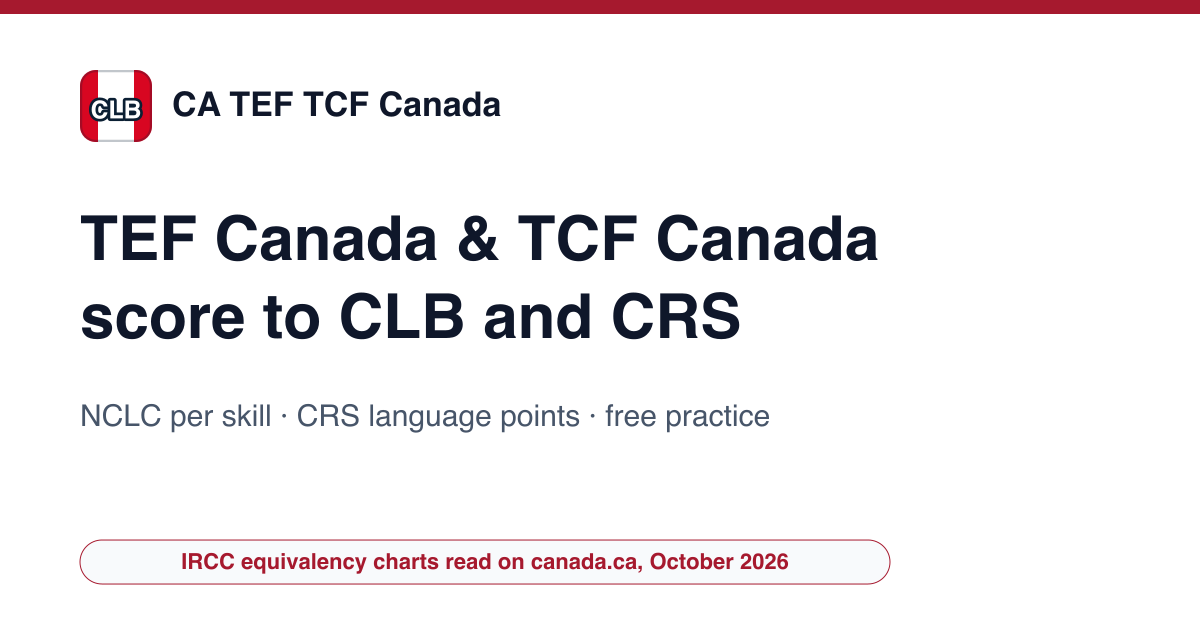
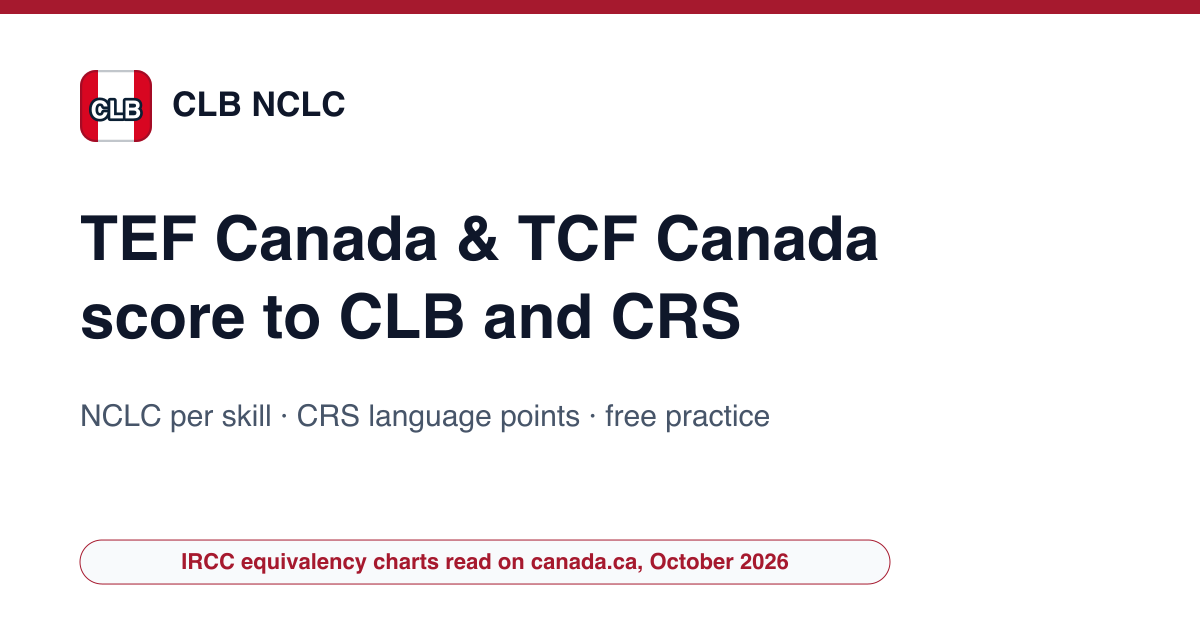
Renommage sur le domaine clbnclc.com

Changed region(s): [[0.1542, 0.1206, 0.4317, 0.2111]]

diff --git a/src/i18n/ui.ts b/src/i18n/ui.ts
@@ -6,7 +6,7 @@ const en = {
   asOf: 'Language test charts and rules for', lastUpdated: 'read on canada.ca, the CCI Paris Île-de-France and France Éducation international documents, last checked on',
   footerValidated: 'Every chart, threshold and delay links to the official page it was read on',
   footerBrowser: 'Converters and practice run in your browser · nothing you type is sent · quiz progress stays in this browser · free, no account, no email',
-  footerDisclaimer: 'CA TEF TCF Canada is an independent site published by Radif Partners. It is not Immigration, Refugees and Citizenship Canada (IRCC), the Government of Canada or the French administration, and it is not affiliated with CCI Paris Île-de-France (TEF), France Éducation international (TCF) or Paragon Testing (CELPIP). It registers no one for a test, and its practice questions are written in-house: they are not questions of the official tests. Scores and levels shown here are for guidance: your official result is the one on your score report.',
+  footerDisclaimer: 'CLB NCLC is an independent site published by Radif Partners. It is not Immigration, Refugees and Citizenship Canada (IRCC), the Government of Canada or the French administration, and it is not affiliated with CCI Paris Île-de-France (TEF), France Éducation international (TCF) or Paragon Testing (CELPIP). It registers no one for a test, and its practice questions are written in-house: they are not questions of the official tests. Scores and levels shown here are for guidance: your official result is the one on your score report.',
   footerPopular: 'Practice',
   notFound: 'Nothing lives at this address. The score converter (TEF Canada, TCF Canada, CELPIP to CLB and CRS points) is on the home page.',
   readMore: 'Read more', back: 'Home',
@@ -18,7 +18,7 @@ const fr: typeof en = {
   asOf: 'Grilles et règles des tests de langue', lastUpdated: 'relues sur canada.ca et dans les documents de la CCI Paris Île-de-France et de France Éducation international, dernière vérification le',
   footerValidated: 'Chaque grille, seuil et délai renvoie à la page officielle où il a été lu',
   footerBrowser: 'Convertisseurs et entraînement dans votre navigateur · rien de ce que vous saisissez n’est transmis · la progression des quiz reste dans ce navigateur · gratuit, sans compte, sans courriel',
-  footerDisclaimer: 'CA TEF TCF Canada est un site indépendant publié par Radif Partners. Ce n’est ni Immigration, Réfugiés et Citoyenneté Canada (IRCC), ni le gouvernement du Canada, ni l’administration française, et il n’est affilié ni à la CCI Paris Île-de-France (TEF), ni à France Éducation international (TCF), ni à Paragon Testing (CELPIP). Il n’inscrit personne à un test, et ses questions d’entraînement sont rédigées par nos soins : ce ne sont pas des questions des tests officiels. Scores et niveaux affichés à titre indicatif : votre résultat officiel est celui de votre attestation.',
+  footerDisclaimer: 'CLB NCLC est un site indépendant publié par Radif Partners. Ce n’est ni Immigration, Réfugiés et Citoyenneté Canada (IRCC), ni le gouvernement du Canada, ni l’administration française, et il n’est affilié ni à la CCI Paris Île-de-France (TEF), ni à France Éducation international (TCF), ni à Paragon Testing (CELPIP). Il n’inscrit personne à un test, et ses questions d’entraînement sont rédigées par nos soins : ce ne sont pas des questions des tests officiels. Scores et niveaux affichés à titre indicatif : votre résultat officiel est celui de votre attestation.',
   footerPopular: 'Entraînement',
   notFound: 'Aucune page à cette adresse. Le convertisseur de scores (TEF Canada, TCF Canada, CELPIP en NCLC et en points) est sur la page d’accueil.',
   readMore: 'Lire la suite', back: 'Accueil',

diff --git a/src/data/site-config.ts b/src/data/site-config.ts
@@ -1,8 +1,8 @@
 /** Configuration centrale du site (générée par new-site.py). */
-export const SITE_URL = "https://ca-tef-tcf-canada.example";
-export const SITE_NAMES: Record<string, string> = {"en": "CA TEF TCF Canada", "fr": "CA TEF TCF Canada"};
+export const SITE_URL = "https://clbnclc.com";
+export const SITE_NAMES: Record<string, string> = {"en": "CLB NCLC", "fr": "CLB NCLC"};
 // Partie du nom affichée en couleur dans l'en-tête (RECETTE §10.3), « » pour aucune.
-export const BRAND_ACCENT = "TEF TCF";
+export const BRAND_ACCENT = "NCLC";
 export const LANG_TAGS: Record<string, string> = {"en": "en-CA", "fr": "fr-CA"};
 export const OG_LOCALES: Record<string, string> = {"en": "en_CA", "fr": "fr_CA"};
 export const LOCALE_TAG = 'en-CA';
@@ -18,7 +18,7 @@ export const AUTHOR_DESC: Record<string, string> = {"en": "Radif Partners is an 
  *  themes reellement traites par le site, pas une liste de mots-cles : un sujet
  *  declare ici sans page qui le couvre est une declaration fausse. */
 export const KNOWS_ABOUT: Record<string, string[]> = {"en": ["TEF Canada", "TCF Canada", "CELPIP-General", "Canadian Language Benchmarks", "Express Entry language points", "TEF IRN and TCF IRN for France"], "fr": ["TEF Canada", "TCF Canada", "CELPIP-General", "Niveaux de compétence linguistique canadiens", "Points de langue d'Entrée express", "TEF IRN et TCF IRN pour la France"]};
-export const CONTACT_EMAIL = "contact@ca-tef-tcf-canada.example";
+export const CONTACT_EMAIL = "contact@clbnclc.com";
 export const THEME_COLOR = '#A6192E';
 export const LOGO_SYMBOL = 'CLB';
 export const BING_VERIFY_CODE = '';
